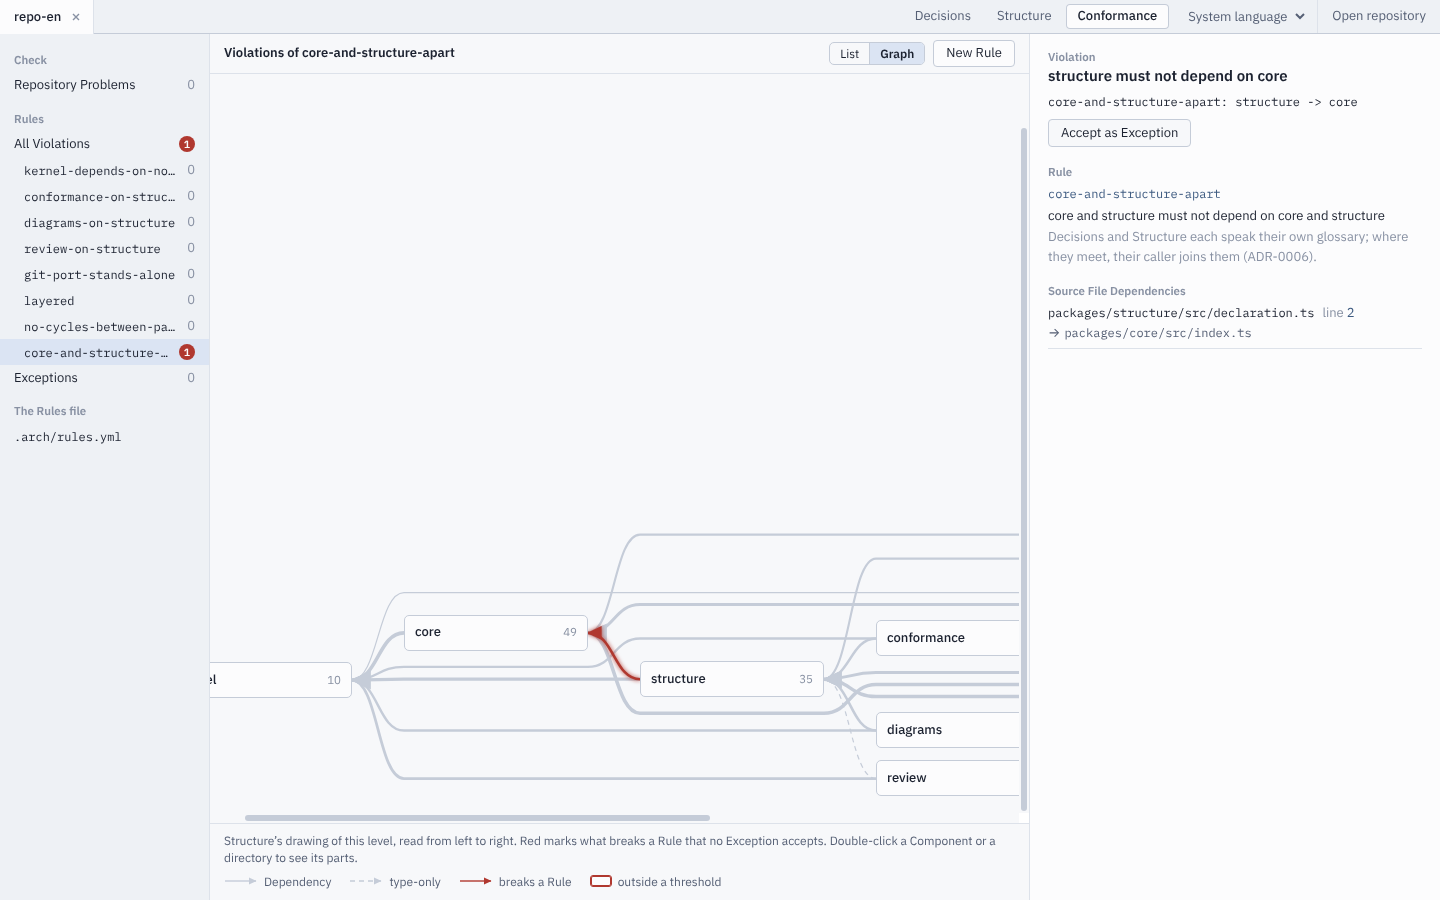
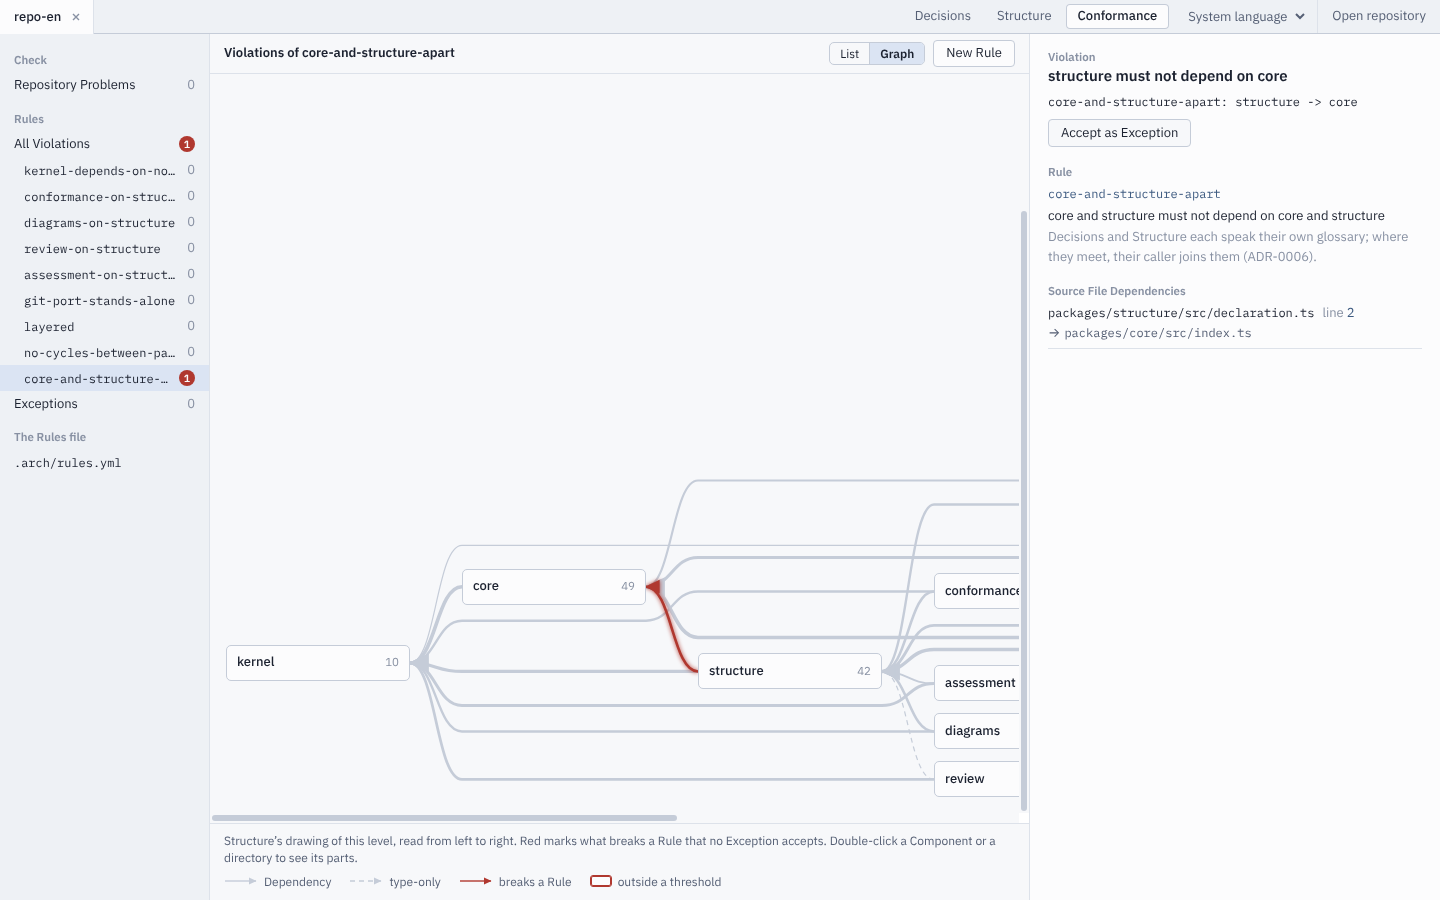
Bring a Violation's line into sight with the boxes at its ends, and take the README's drawing again (vision part 4, review)
The drawing scrolls up or down to the middle and sideways only as far as
it takes, so that the boxes beside the line keep their place; the
screenshot of the README shows kernel whole again.

Claude-Session: https://claude.ai/code/session_01KcUxpgS2rgc4tr52NRcAYm

diff --git a/packages/app/src/renderer/src/components/StructureGraph.svelte b/packages/app/src/renderer/src/components/StructureGraph.svelte
@@ -90,8 +90,10 @@
     violating(edge) ? Math.max(2.6, strokeOf(edge.weight)) : strokeOf(edge.weight)
 
   // A level that is drawn anew shows what is selected on it, or else the first thing that
-  // breaks a Rule, wherever it lies in the drawing: scrolled only as far as it takes to see it
-  // whole, and only when the level or the selection changed — not on every refresh.
+  // breaks a Rule, wherever it lies in the drawing — a line with the boxes at its two ends.
+  // It is scrolled only when the level or the selection changed, not on every refresh, and
+  // only where it is not in sight already: up or down to the middle, sideways as little as
+  // it takes, so that the boxes beside it stay where they are.
   let canvas = $state<HTMLDivElement>()
   let shownFor: string | undefined
   $effect(() => {
@@ -100,17 +102,37 @@
     if (at === shownFor) return
     shownFor = at
     const target =
-      canvas.querySelector('.node.selected, .line.violating.highlighted') ??
-      canvas.querySelector('.line.violating, .node.violating')
+      canvas.querySelector<HTMLElement | SVGElement>(
+        '.node.selected, .line.violating.highlighted'
+      ) ?? canvas.querySelector<HTMLElement | SVGElement>('.line.violating, .node.violating')
     if (!target) return
-    const box = target.getBoundingClientRect()
+    const ends = [target.dataset.from, target.dataset.to].flatMap((id) =>
+      id === undefined ? [] : [canvas!.querySelector(`.node[data-id="${CSS.escape(id)}"]`)]
+    )
+    const boxes = [target, ...ends].flatMap((one) => (one ? [one.getBoundingClientRect()] : []))
+    const left = Math.min(...boxes.map((box) => box.left))
+    const right = Math.max(...boxes.map((box) => box.right))
+    const top = Math.min(...boxes.map((box) => box.top))
+    const bottom = Math.max(...boxes.map((box) => box.bottom))
     const frame = canvas.getBoundingClientRect()
-    const whole =
-      box.left >= frame.left &&
-      box.right <= frame.right &&
-      box.top >= frame.top &&
-      box.bottom <= frame.bottom
-    if (!whole) target.scrollIntoView({ block: 'nearest', inline: 'nearest' })
+    const seen = {
+      left: frame.left,
+      top: frame.top,
+      right: frame.left + canvas.clientWidth,
+      bottom: frame.top + canvas.clientHeight
+    }
+    const margin = 16
+    const down =
+      top >= seen.top && bottom <= seen.bottom
+        ? 0
+        : (top + bottom) / 2 - (seen.top + seen.bottom) / 2
+    const across =
+      left < seen.left
+        ? left - seen.left - margin
+        : right > seen.right
+          ? Math.min(right - seen.right + margin, left - seen.left - margin)
+          : 0
+    if (down !== 0 || across !== 0) canvas.scrollBy({ left: across, top: down })
   })
 </script>
 
@@ -139,6 +161,8 @@
             {@const d = pathOf(line)}
             <path
               class="line"
+              data-from={edge.from}
+              data-to={edge.to}
               class:type-only={edge.typeOnly}
               class:in-cycle={inCycle(edge) || violating(edge)}
               class:violating={violating(edge)}
@@ -167,6 +191,7 @@
           {#if node}
             <button
               class="node {node.kind}"
+              data-id={node.id}
               class:draft={view.origin === 'draft'}
               class:violating={violations?.nodes.has(node.id)}
               class:selected={selection?.kind === 'node' && selection.id === node.id}
